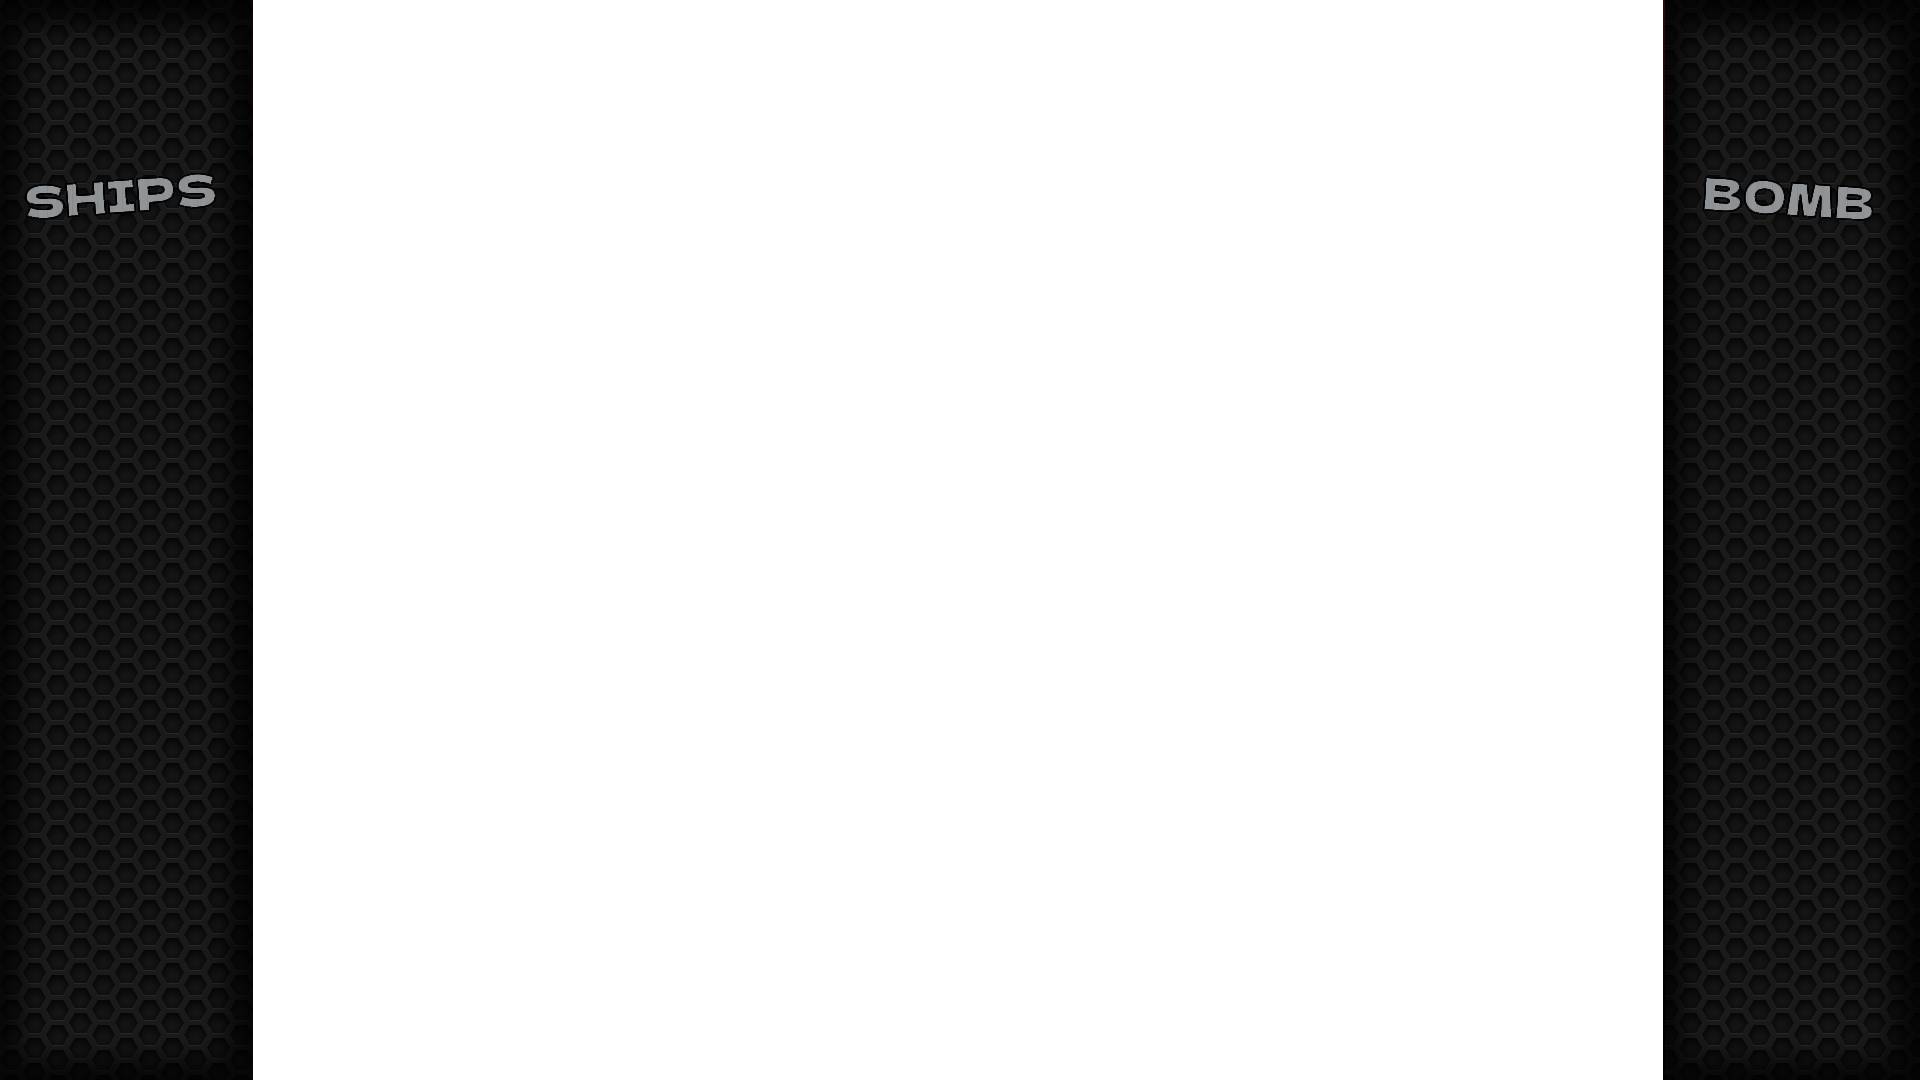
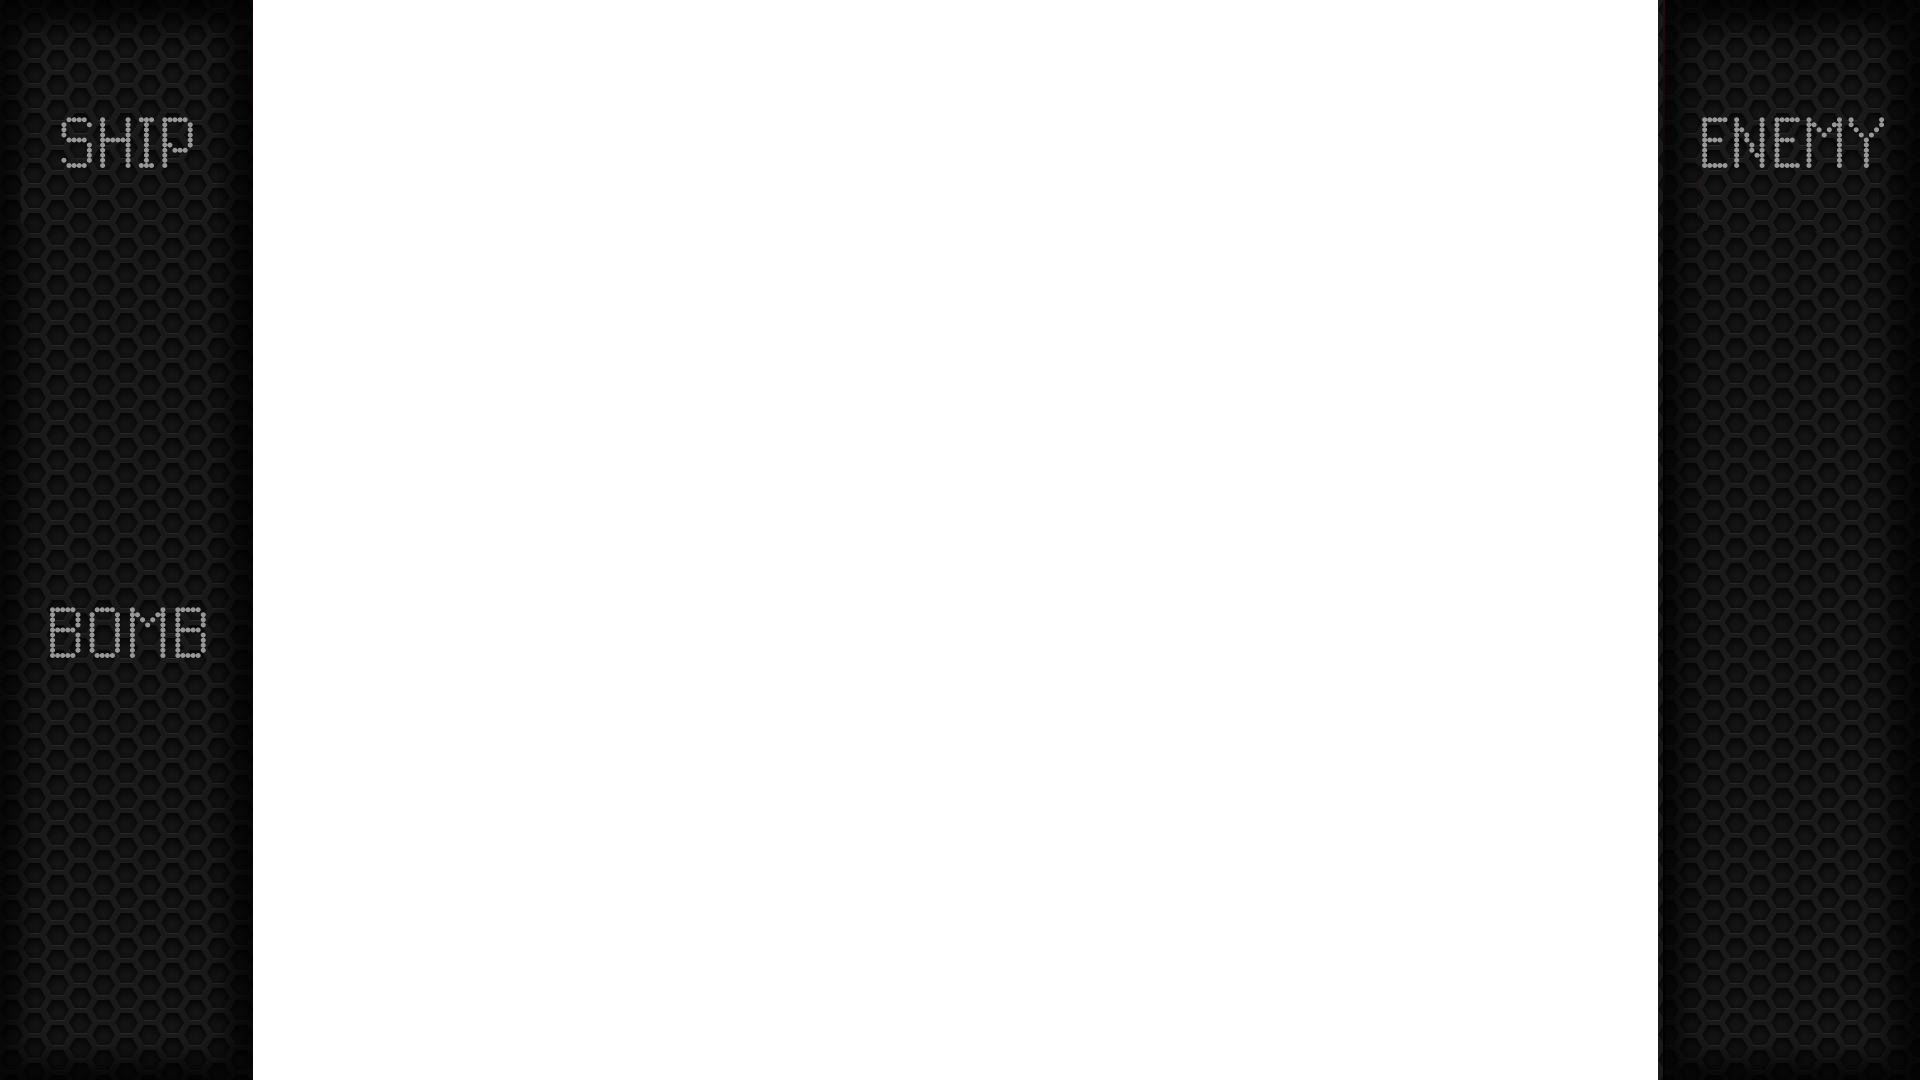
HUD displays current lives/bombs/enemy-health

Changed region(s): [[0.875, 0.0917, 1.0, 0.2139], [0.0, 0.0917, 0.125, 0.2139], [0.0312, 0.55, 0.125, 0.6111]]

diff --git a/ShooterGame/GameHud.cpp b/ShooterGame/GameHud.cpp
@@ -4,34 +4,88 @@
 
 using namespace Play3d;
 
+static GameHud* s_pHud{nullptr};
+
+GameHud* GameHud::Get()
+{
+	if (!s_pHud)
+	{
+		s_pHud = new GameHud();
+	}
+	return s_pHud;
+}
+
+void GameHud::Destroy()
+{
+	delete s_pHud;
+	s_pHud = nullptr;
+}
+
 GameHud::GameHud()
 {
 	m_meshFullscreen = Graphics::CreatePlane(GetGameHalfWidth(), GetGameHalfHeight());
+	m_meshIcon = Graphics::CreatePlane(.5f, .5f);
 
 	m_matHud = GetObjectManager()->GetMaterialHLSL("..\\Assets\\Shaders\\HUD.hlsl", "..\\Assets\\Images\\HUD.png");
 	m_matBackground = GetObjectManager()->GetMaterial("..\\Assets\\Images\\background.png");
-}
-
-void GameHud::SetLives(int count)
-{
-
-}
-
-void GameHud::SetScore(int score)
-{
-
+	m_matLife = GetObjectManager()->GetMaterial("..\\Assets\\Images\\life.png");
+	m_matBomb = GetObjectManager()->GetMaterial("..\\Assets\\Images\\bomb.png");
 }
 
 void GameHud::Draw()
 {
 	const float bgDepth{50.f};
-	const float hudDepth{-9.9f};
+	float hudDepth{-9.0f};
 
 	// Background texture
 	Graphics::SetMaterial(m_matBackground);
 	Graphics::DrawMesh(m_meshFullscreen, MatrixTranslate(0.f, 0.f, bgDepth) * MatrixRotationX<f32>(kfHalfPi) * MatrixRotationZ<f32>(kfPi));
-
 	// Foreground HUD texture
 	Graphics::SetMaterial(m_matHud);
 	Graphics::DrawMesh(m_meshFullscreen, MatrixTranslate(0.f, 0.f, hudDepth) * MatrixRotationX<f32>(kfHalfPi) * MatrixRotationZ<f32>(kfPi));
+	// Update hud depth for items on top
+	hudDepth -= 0.1f;
+
+	float iconSpacing{1.5f};
+
+	// Lives
+	Graphics::SetMaterial(m_matLife);
+	Vector2f lifeOrigin{11.6f, 4.f};
+	for (int i = 0; i < m_lives; i++)
+	{
+		Graphics::DrawMesh(m_meshIcon, MatrixTranslate(lifeOrigin.x, lifeOrigin.y, hudDepth) * MatrixRotationX<f32>(kfHalfPi) * MatrixRotationZ<f32>(kfPi));
+		lifeOrigin.y -= iconSpacing;
+	}
+
+	// Bombs
+	Graphics::SetMaterial(m_matBomb);
+	Vector2f bombOrigin{ 11.6f, -4.f };
+	for (int i = 0; i < m_bombs; i++)
+	{
+		Graphics::DrawMesh(m_meshIcon, MatrixTranslate(bombOrigin.x, bombOrigin.y, hudDepth) * MatrixRotationX<f32>(kfHalfPi) * MatrixRotationZ<f32>(kfPi));
+		bombOrigin.y -= iconSpacing;
+	}
+
+	// Boss Health
+	Vector3f healthMid{-GetGameHalfWidth() + 1.8f, -6.2f, hudDepth};
+	Vector3f healthExtent{.5f, 10.f, 0.f};
+	Graphics::DrawQuad( // OUTLINE
+		healthMid + Vector3f(healthExtent.x, healthExtent.y, 0.f),
+		healthMid + Vector3f(-healthExtent.x, healthExtent.y, 0.f),
+		healthMid + Vector3f(healthExtent.x, 0.f, 0.f),
+		healthMid + Vector3f(-healthExtent.x, 0.f, 0.f),
+		Colour::White
+	);
+	healthMid.z -= 0.1f;
+	float trimY{0.08f};
+	float trimX{0.05f};
+	healthExtent.x -= trimY; // shrink for outline to be visible
+	healthExtent.y -= trimX; // shrink for outline to be visible
+	Graphics::DrawQuad( // HEALTH
+		healthMid + Vector3f(healthExtent.x, healthExtent.y * m_bossHealthPercent, 0.f),
+		healthMid + Vector3f(-healthExtent.x, healthExtent.y * m_bossHealthPercent, 0.f),
+		healthMid + Vector3f(healthExtent.x, trimY, 0.f),
+		healthMid + Vector3f(-healthExtent.x, trimY, 0.f),
+		Colour::Red
+	);
 }

diff --git a/ShooterGame/ObjectBoss.cpp b/ShooterGame/ObjectBoss.cpp
@@ -1,5 +1,6 @@
 #include "ObjectBoss.h"
 #include "ObjectManager.h"
+#include "GameHud.h"
 
 using namespace Play3d;
 
@@ -41,7 +42,7 @@ void ObjectBoss::Update()
 
 	m_rotation.x = sin(elapsedTime * 2) * WOBBLE_STRENGTH / 2;
 	m_rotation.y = cos(elapsedTime) * WOBBLE_STRENGTH;
-	m_pos.x = sin(elapsedTime / 4) * POS_LIMIT_X;
+	//m_pos.x = sin(elapsedTime / 4) * POS_LIMIT_X;
 
 	m_cannonCooldown -= System::GetDeltaTime();
 	if (m_cannonCooldown < 0.f)
@@ -50,14 +51,14 @@ void ObjectBoss::Update()
 		m_cannonCooldown = COOLDOWN_FIRE;
 		for (int i = 0; i < TOTAL_CANNONS; i++)
 		{
-			//FireCannon(i);
+			//FireSingle(i);
 		}
 
 		FireBomb();
 	}
 }
 
-void ObjectBoss::FireCannon(int cannonId, float speed)
+void ObjectBoss::FireSingle(int cannonId, float speed)
 {
 	PLAY_ASSERT(cannonId < TOTAL_CANNONS);
 	Vector3f spawnPos{ m_pos };
@@ -71,11 +72,20 @@ void ObjectBoss::FireCannon(int cannonId, float speed)
 	GetObjectManager()->CreateObject(TYPE_BOSS_PELLET, spawnPos)->SetVelocity(Vector3f(0.f, shotSpeed, 0.f));
 }
 
+void ObjectBoss::FireBurst(Play3d::Vector2f origin, float velocity, float minAngle, float maxAngle, int segments)
+{
+	GameObjectManager* pObjs{GetObjectManager()};
+	for (int i = 0; i < segments; i++)
+	{
+
+		pObjs->CreateObject(TYPE_BOSS_PELLET, Vector3f(origin.x, origin.y, 0.f));
+	}
+}
+
 void ObjectBoss::FireBomb()
 {
 	Vector3f spawnPos{ m_pos };
 	spawnPos.y -= 1.f;
-	spawnPos.x += 0.38f;
 
 	GetObjectManager()->CreateObject(TYPE_BOSS_BOMB, spawnPos)->SetVelocity(Vector3f(0.f, CANNON_SHOTSPEED, 0.f));
 }
@@ -88,6 +98,15 @@ void ObjectBoss::ActivateLaser(int laserId)
 void ObjectBoss::DisableLaser(int laserId)
 {
 
+}
+
+void ObjectBoss::OnCollision(GameObject* other)
+{
+	if (other->GetObjectType() == GameObjectType::TYPE_PLAYER_PELLET)
+	{
+		m_health--;
+		GameHud::Get()->SetBossBarPercent((f32)m_health / BOSS_MAX_HEALTH);
+	}
 }
 
 void ObjectBoss::Draw() const

diff --git a/ShooterGame/FlowstateGame.cpp b/ShooterGame/FlowstateGame.cpp
@@ -2,7 +2,7 @@
 #include "FlowstateGame.h"
 #include "ObjectManager.h"
 #include "UtilityFunctions.h"
-
+#include "GameHud.h"
 using namespace Play3d;
 
 void FlowstateGame::EnterState()
@@ -93,7 +93,6 @@ eFlowstates FlowstateGame::Update()
 	GameObjectManager* pObjs{ GetObjectManager() };
 	pObjs->UpdateAll();
 	m_starEmitter.Tick();
-	//m_starEmitter.m_position.x = (pObjs->GetPlayer()->GetPosition().x) * -0.2f;
 
 	return eFlowstates::STATE_NULL;
 }
@@ -118,12 +117,13 @@ void FlowstateGame::Draw()
 	}
 	GetObjectManager()->DrawAll();
 	m_starEmitter.Draw();
+	GameHud::Get()->Draw();
 	Graphics::EndPrimitiveBatch();
 
-	m_hud.Draw();
 }
 
 void FlowstateGame::ExitState()
 {
 	DestroyObjectManager();
+	GameHud::Destroy();
 }

diff --git a/ShooterGame/GameHud.h b/ShooterGame/GameHud.h
@@ -4,15 +4,24 @@
 class GameHud
 {
 public:
-	GameHud();
+	static GameHud* Get();
+	static void Destroy();
 
-	void SetLives(int count);
-	void SetScore(int score);
+	void SetLives(int life){m_lives = life;};
+	void SetBombs(int bomb){m_bombs = bomb;};
+	void SetBossBarPercent(float percent){m_bossHealthPercent = percent;};
 	void Draw();
 
 private:
+	GameHud();
 	Play3d::Graphics::MeshId m_meshFullscreen;
+	Play3d::Graphics::MeshId m_meshIcon;
 	Play3d::Graphics::MaterialId m_matHud;
 	Play3d::Graphics::MaterialId m_matBackground;
+	Play3d::Graphics::MaterialId m_matLife;
+	Play3d::Graphics::MaterialId m_matBomb;
+	float m_bossHealthPercent{1.f};
+	int m_lives{3};
+	int m_bombs{2};
 };
 

diff --git a/ShooterGame/ObjectBoss.h b/ShooterGame/ObjectBoss.h
@@ -1,6 +1,8 @@
 #pragma once
 #include "GameObject.h"
 
+static constexpr int BOSS_MAX_HEALTH{1000};
+
 struct Attack
 {
 	int cannonId; // -1 for BOMB
@@ -23,13 +25,17 @@ public:
 
 	void Update() override;
 	void Draw() const override;
+	void OnCollision(GameObject* other) override;
 
 private:
-	void FireCannon(int cannonId, float speed = 0.f);
+	void FireSingle(int cannonId, float speed = 0.f);
+	void FireBurst(Play3d::Vector2f origin, float velocity, float minAngle, float maxAngle, int segments);
 	void FireBomb();
 	void ActivateLaser(int laserId);
 	void DisableLaser(int laserId);
 	float m_cannonCooldown{0.f};
+
+	int m_health{ BOSS_MAX_HEALTH };
 
 	AttackPattern phaseA;
 };

diff --git a/ShooterGame/GameObject.cpp b/ShooterGame/GameObject.cpp
@@ -104,7 +104,8 @@ void GameObject::Draw() const
 		  MatrixTranslate<f32>(m_pos.x, m_pos.y, m_pos.z)
 		* MatrixRotationX<f32>(m_rotation.x)
 		* MatrixRotationY<f32>(m_rotation.y)
-		* MatrixRotationZ<f32>(m_rotation.z);
+		* MatrixRotationZ<f32>(m_rotation.z)
+		* MatrixScale<f32>(m_scale, m_scale, m_scale);
 
 	Graphics::SetMaterial(m_materialId);
 	Graphics::DrawMesh(m_meshId, transform);

diff --git a/ShooterGame/FlowstateGame.h b/ShooterGame/FlowstateGame.h
@@ -1,7 +1,6 @@
 #pragma once
 #include "Flowstate.h"
 #include "ParticleEmitter.h"
-#include "GameHud.h"
 
 class FlowstateGame : public Flowstate
 {
@@ -16,7 +15,6 @@ private:
 	void SetGameCamera();
 
 	ParticleEmitter m_starEmitter;
-	GameHud m_hud;
 	bool m_debugCam{false};
 	bool m_debugCollision{false};
 };

diff --git a/ShooterGame/ObjectPlayer.cpp b/ShooterGame/ObjectPlayer.cpp
@@ -1,5 +1,6 @@
 #include "ObjectPlayer.h"
 #include "ObjectManager.h"
+#include "GameHud.h"
 using namespace Play3d;
 
 static constexpr float SHIP_HALFWIDTH{0.15f};
@@ -96,6 +97,8 @@ void ObjectPlayer::Respawn()
 
 		SetHidden(false);
 		m_canCollide = true;
+
+		GameHud::Get()->SetLives(m_lives);
 	}
 }
 

diff --git a/ShooterGame/ObjectBossBomb.cpp b/ShooterGame/ObjectBossBomb.cpp
@@ -51,7 +51,7 @@ void ObjectBossBomb::Burst()
 		}
 		Vector3f direction{x, y, 0.f};
 
-		pPellet->SetVelocity(direction * 0.1f);
+		pPellet->SetVelocity(direction * 0.05f);
 		pPellet->SetHidden(false);
 	}
 }
